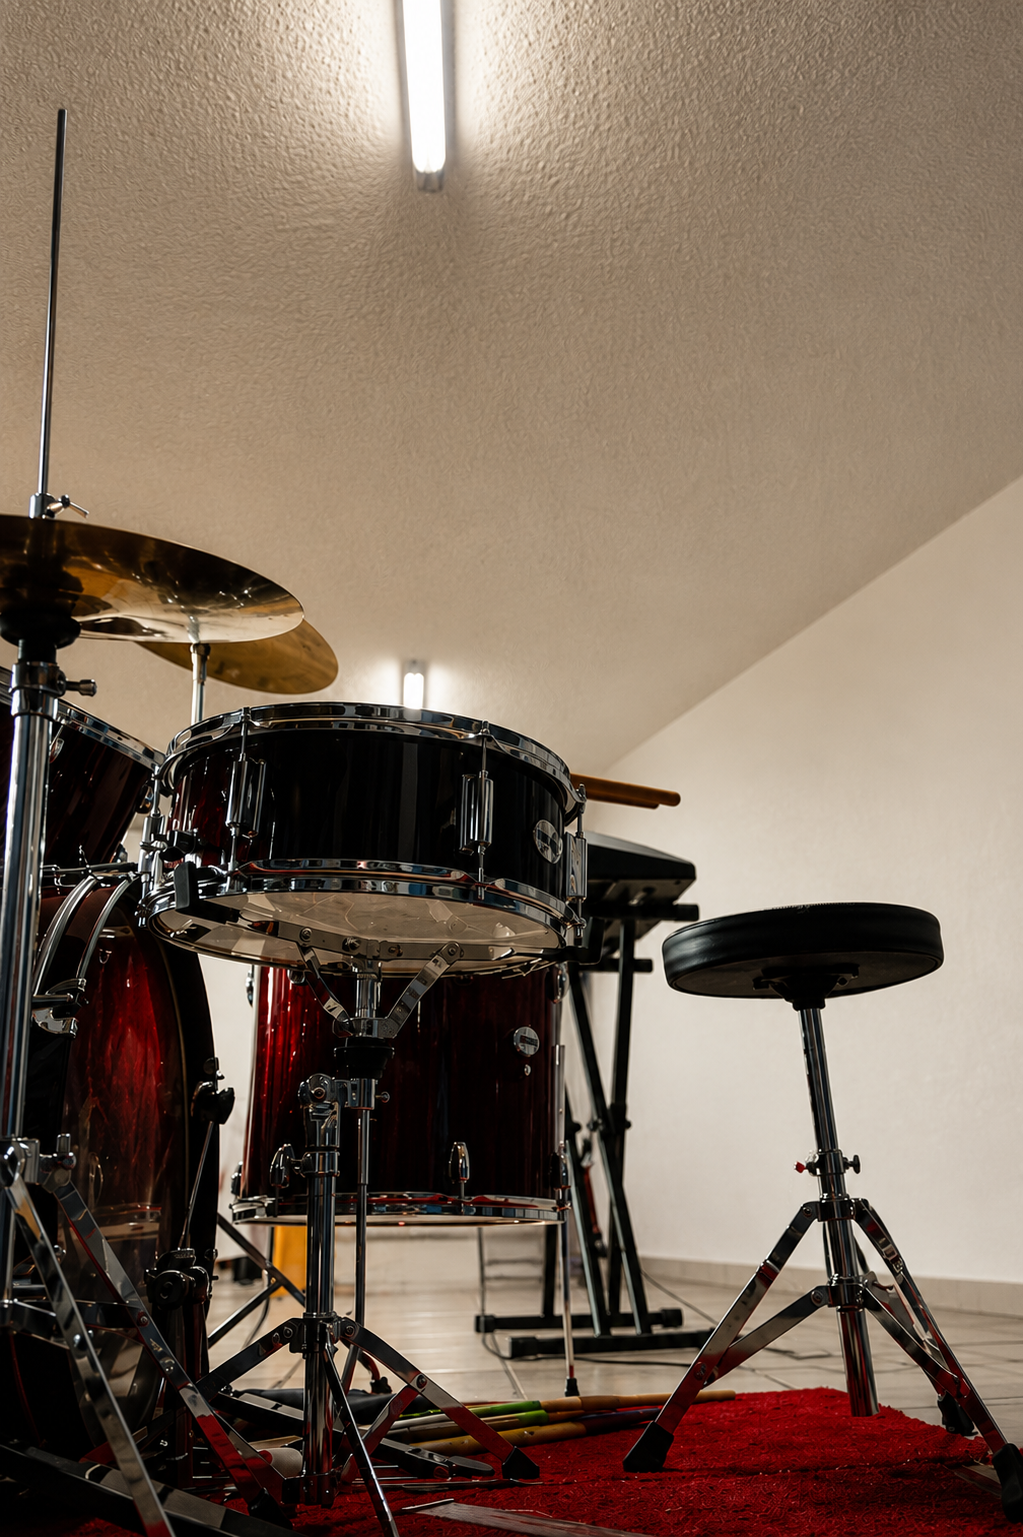
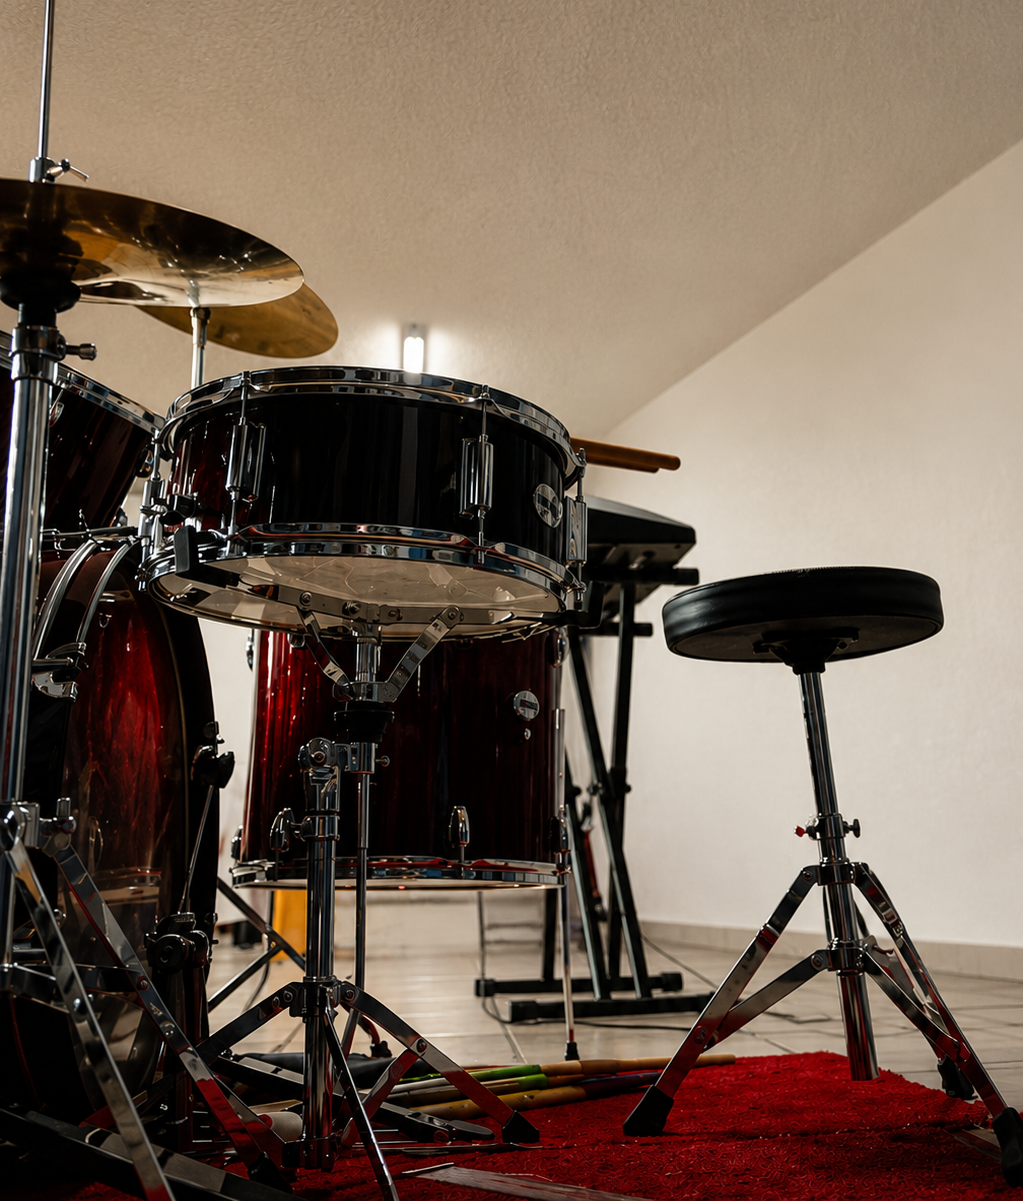
added new imgsand edited html

diff --git a/index.html b/index.html
@@ -262,7 +262,7 @@
 
             <div class="course-image">
 
-                <img src="./Assets/course1.jpg" alt="Beginner Drumming">
+                <img src="./Assets/drum img.png" alt="Beginner Drumming">
 
             </div>
 
@@ -309,6 +309,113 @@
         </div>
 
     </div>
+
+     <!-- Course Card2 -->
+    <div class="course-card">
+
+            <div class="course-image">
+
+                <img src="./Assets/drum img2.png" alt="Beginner Drumming">
+
+            </div>
+
+            <div class="course-content">
+
+                <span class="course-level beginner">
+                    Beginner
+                </span>
+
+                <h3>Beginner Foundations</h3>
+
+                <p>
+                    Learn proper grip, posture, timing,
+                    counting and your very first drum grooves.
+                </p>
+
+                <div class="course-info">
+
+                    <span>
+                        <i class="bi bi-collection-play"></i>
+                        12 Lessons
+                    </span>
+
+                    <span>
+                        <i class="bi bi-clock"></i>
+                        3 Hours
+                    </span>
+
+                    <span>
+                        <i class="bi bi-award"></i>
+                        Certificate
+                    </span>
+
+                </div>
+
+                <button class="btn-primary">
+
+                    Start Course
+
+                </button>
+
+            </div>
+
+        </div>
+
+    </div>
+
+     <!-- Course Card3 -->
+    <div class="course-card">
+
+            <div class="course-image">
+
+                <img src="./Assets/drum img2.png" alt="Beginner Drumming">
+
+            </div>
+
+            <div class="course-content">
+
+                <span class="course-level beginner">
+                    Beginner
+                </span>
+
+                <h3>Beginner Foundations</h3>
+
+                <p>
+                    Learn proper grip, posture, timing,
+                    counting and your very first drum grooves.
+                </p>
+
+                <div class="course-info">
+
+                    <span>
+                        <i class="bi bi-collection-play"></i>
+                        12 Lessons
+                    </span>
+
+                    <span>
+                        <i class="bi bi-clock"></i>
+                        3 Hours
+                    </span>
+
+                    <span>
+                        <i class="bi bi-award"></i>
+                        Certificate
+                    </span>
+
+                </div>
+
+                <button class="btn-primary">
+
+                    Start Course
+
+                </button>
+
+            </div>
+
+        </div>
+
+    </div>
+
 
 </section>
 
